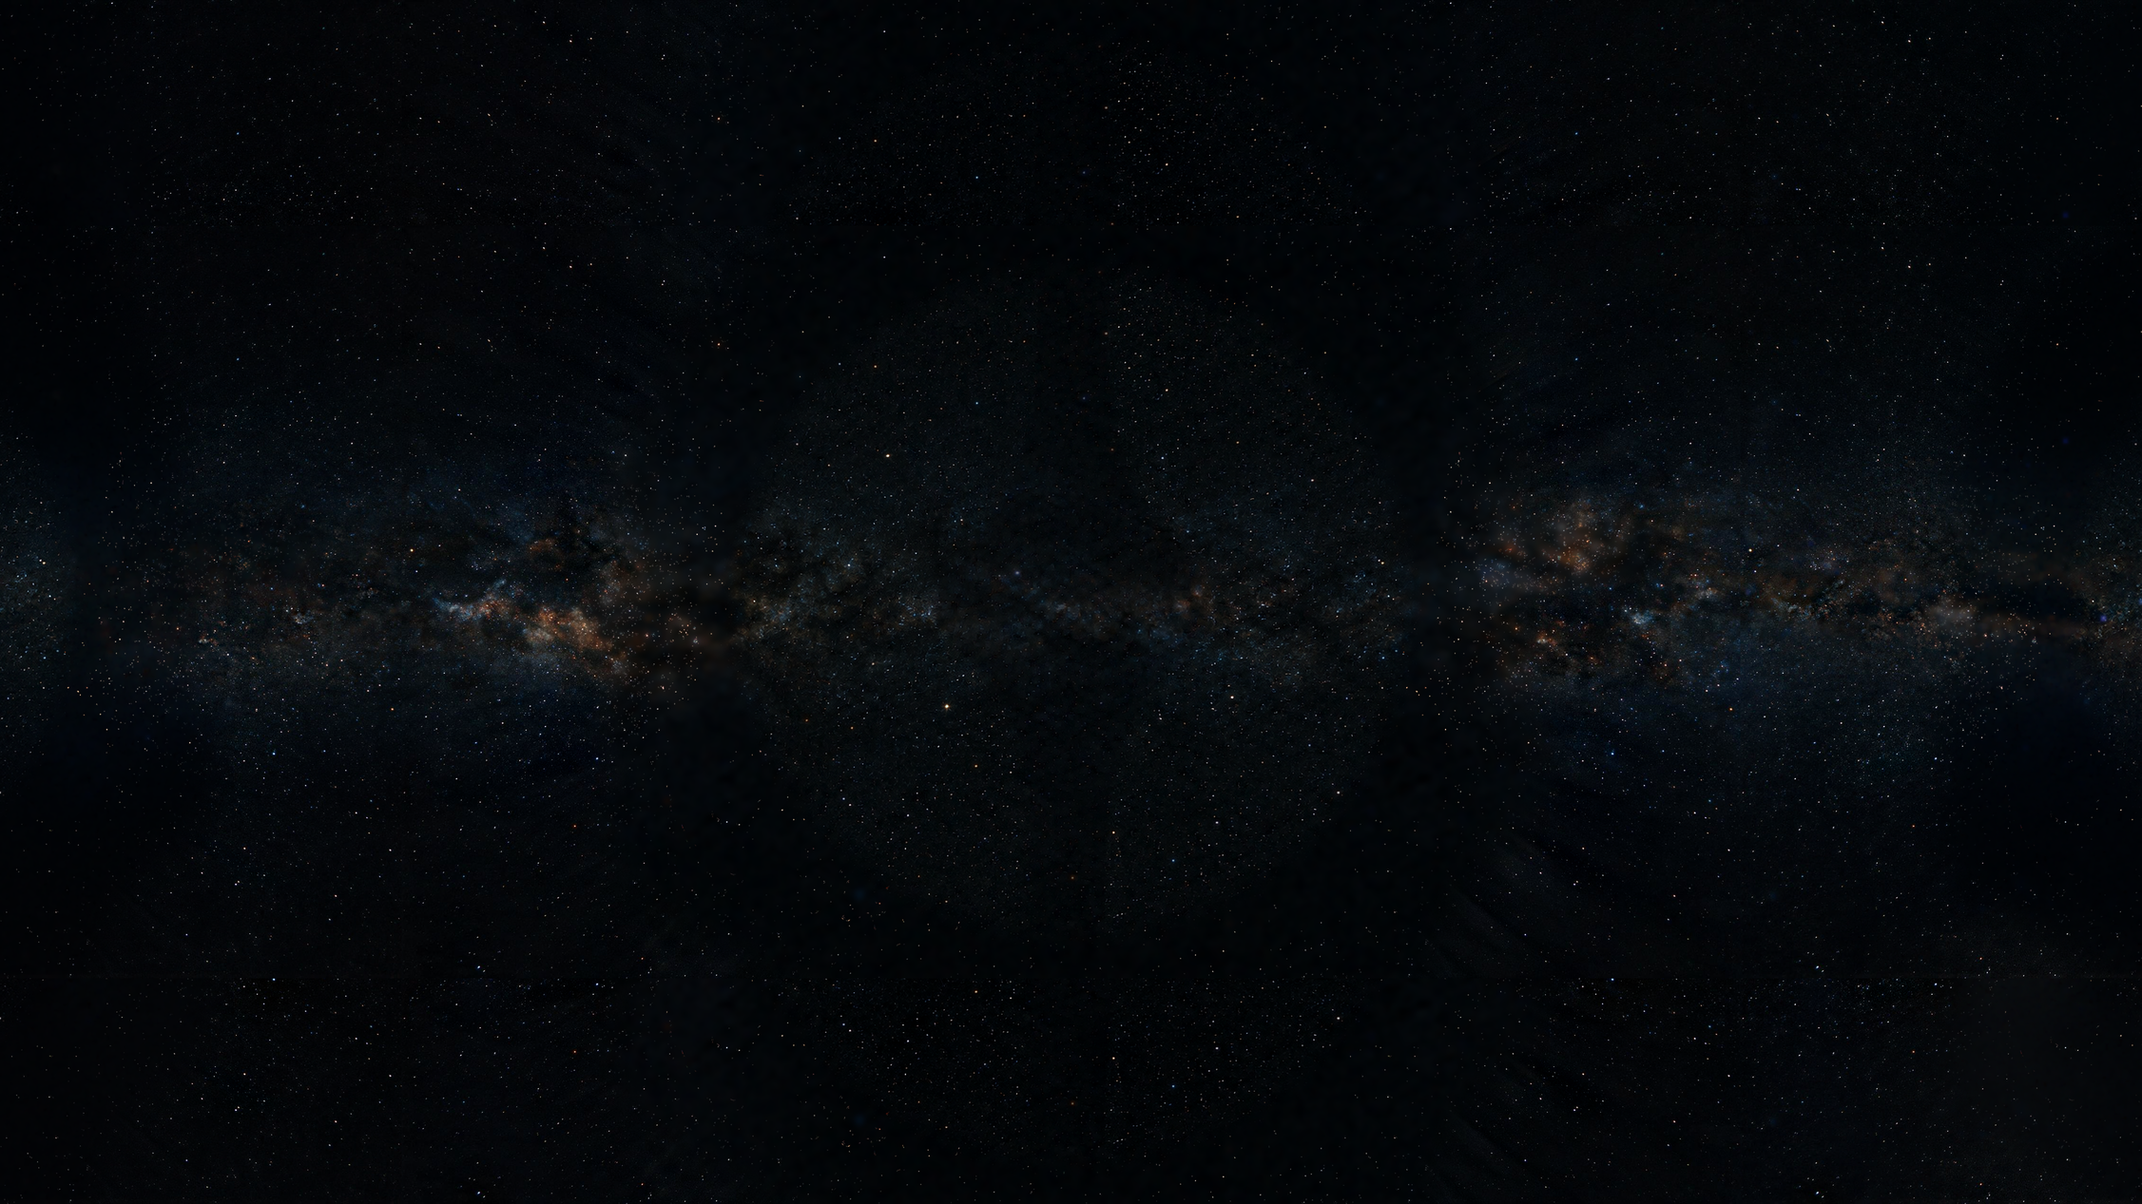
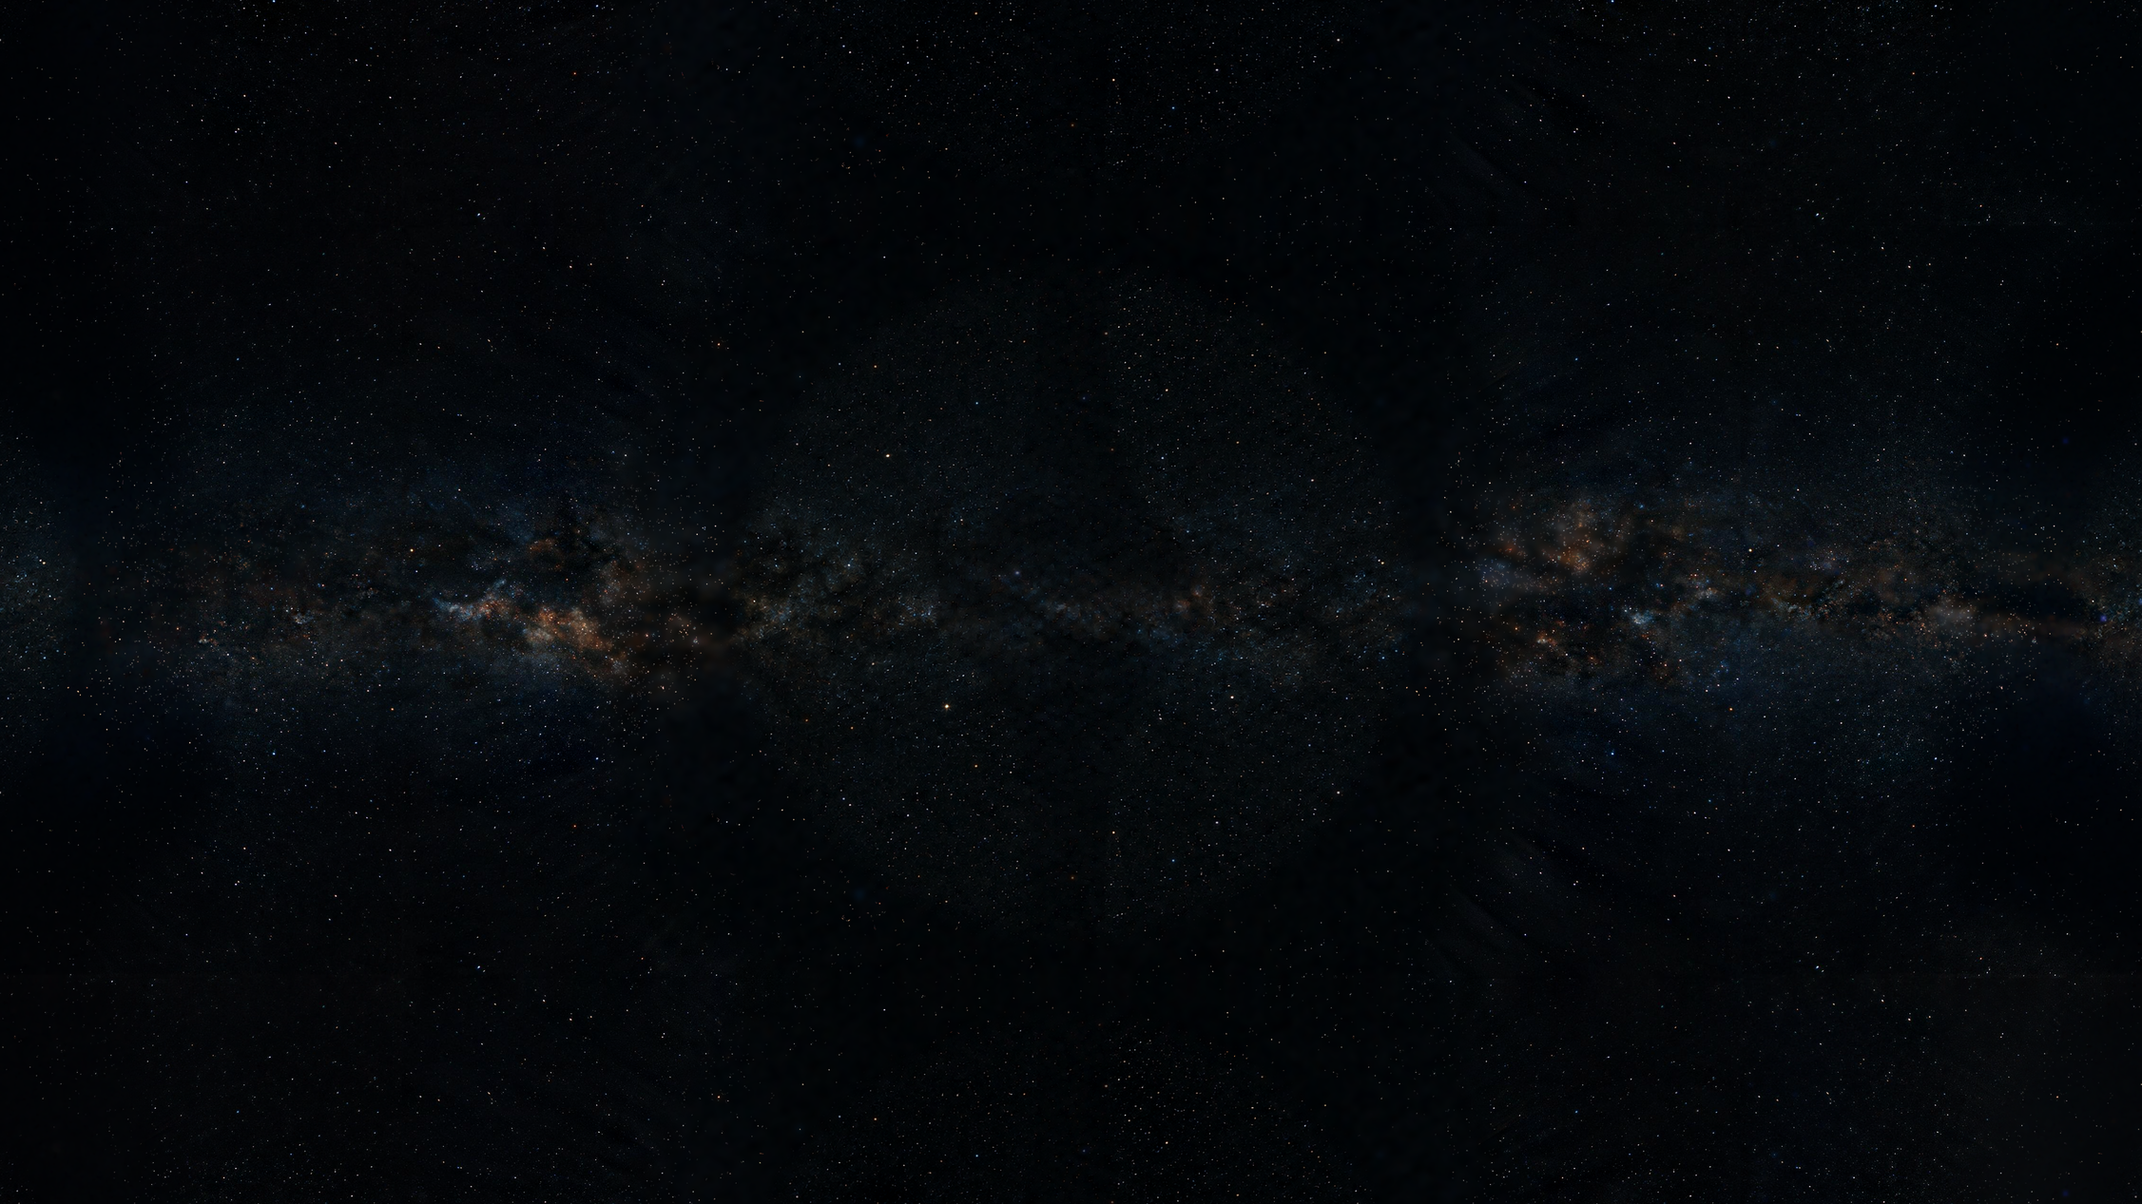
Sun round 3: relief sunspot meets the hero's sunspot and turns with the globe, hold sky card top and bottom border

diff --git a/src/stops/sun/set.ts b/src/stops/sun/set.ts
@@ -57,6 +57,8 @@ export const createSet: SetFactory = async (ctx) => {
   const terrainMid = (plan.seg.terrain.start + plan.seg.terrain.end) / 2 + config.shutterFraction / (2 * config.fps)
   const eye = new THREE.Vector3()
   const turn = new THREE.Quaternion()
+  const carry = new THREE.Quaternion()
+  const spark = new THREE.Vector3()
   const tint = new THREE.Vector3()
   const tint2 = new THREE.Vector3().fromArray(look.dissolve.tint)
   const d = look.dissolve
@@ -73,9 +75,10 @@ export const createSet: SetFactory = async (ctx) => {
       orbit.visible = inOrbit && state.weight > 0
       terrain.visible = !inOrbit || mixed
       if (mixed) {
-        terrain.quaternion.copy(plan.toGlobe)
+        carry.copy(plan.carry(state.time))
+        terrain.quaternion.copy(carry).multiply(plan.toGlobe)
         terrain.scale.setScalar(1 / stage.radius)
-        terrain.position.copy(inGlobe)
+        terrain.position.copy(inGlobe).applyQuaternion(carry)
         backdropTerrain.mesh.quaternion.copy(plan.toGlobe)
       } else {
         terrain.quaternion.identity()
@@ -91,11 +94,11 @@ export const createSet: SetFactory = async (ctx) => {
       backdrop.update(shown, gain, vignette, aspect)
       backdropTerrain.update(terrain.visible ? 1 - skyIn : 0, gain, vignette, aspect)
       const burst = kind === 'rise' ? flare.amount(state.time - flareAt) : 0
-      flare.update(inOrbit ? kernelGlobe : kernel, world, view.camera, burst, inOrbit ? 1 / stage.radius : 1, gain, aspect)
+      flare.update(inOrbit ? spark.copy(kernelGlobe).applyQuaternion(mixed ? carry : carry.identity()) : kernel, world, view.camera, burst, inOrbit ? 1 / stage.radius : 1, gain, aspect)
       if (terrain.visible) {
         const t = state.time - terrainMid
         eye.copy(world.position).negate().applyQuaternion(turn.copy(world.quaternion).invert())
-        if (mixed) eye.applyQuaternion(plan.toStage).multiplyScalar(stage.radius).add(stage.centre)
+        if (mixed) eye.applyQuaternion(turn.copy(carry).invert()).applyQuaternion(plan.toStage).multiplyScalar(stage.radius).add(stage.centre)
         const far = Math.min(Math.max((x - d.far[0]) / (d.far[1] - d.far[0]), 0), 1)
         ground.show(mixed, d.reach[0] + (d.reach[1] - d.reach[0]) * far, d.feather, 1 - share(x, d.cap), share(x, d.fold))
         ground.update(eye, t, gain, vignette, aspect, fringe.lod(view.camera.fov, view.format.height), look.flare.ground * burst)

diff --git a/src/stops/sun/plan.ts b/src/stops/sun/plan.ts
@@ -9,7 +9,7 @@ import { stage } from './stage'
 
 export const params: MoveParams = {
   hold: { orbitDeg: 6, axis: [0, 1, 0], push: 0 },
-  spot: { x: 0.54, y: 0.39 },
+  spot: { x: 0.57, y: 0.39 },
   dive: { headingDeg: 0, altitude: 0.7, back: 0.05, ahead: 0.12, bow: 0.15, rollDeg: 0 },
   terrain: { vfov: 55, gather: -0.5, forward: 2.0, rise: -0.1, side: 0.7, yawDeg: 8, pitchDeg: 8, horizonDeg: 3.2, dipDeg: 17.5, entryHeight: 0.9, entryBack: 1.1, entryPitchDeg: 4.8, exitHeight: 1.6, exitForward: -0.6, exitPitchDeg: -12 },
   rise: { azimuthDeg: 0, elevationDeg: 0, distance: 4.6, offset: [0, 0], driftSpeed: 0.05, rollDeg: 0, settle: 2 },
@@ -153,6 +153,10 @@ export class SunPlan extends StopPlan {
     const seg = this.seg.rise
     const path = this.path((time - seg.start) / (seg.end - seg.start))
     return time < this.switchTime ? { pose: this.local(path), view: 'terrain' } : { pose: path, view: 'orbit' }
+  }
+
+  carry(time: number): THREE.Quaternion {
+    return this.turn(time).multiply(this.turn(this.switchTime).invert())
   }
 
   blend(time: number): number {

diff --git a/src/stops/sun/ground.ts b/src/stops/sun/ground.ts
@@ -155,7 +155,7 @@ void main() {
   float shown = 1.0;
   for (int k = 0; k < (uMixed > 0.5 ? 1 : 0); k++) {
     float ring = length(vec2(dot(lay, ST_RIGHT), dot(lay, ST_FWD)));
-    float real = 1.0 - uShow.w * smoothstep(ST_FOLD.w - 1.6, ST_FOLD.w, ring);
+    float real = 1.0 - uShow.w * smoothstep(ST_FOLD.w - 1.1, ST_FOLD.w, ring);
     shown = uShow.z * real * (1.0 - smoothstep(uShow.x - uShow.y, uShow.x, length(vStage - uSpot))) * step(0.0, dot(normal, uCam - vStage));
   }
   outColor = diagOut(vec4(col, shown), texels, 1.0, vec3(0.9, 0.5, 0.1), moved * 4.0, length(vView));

diff --git a/assets-src/sun/orbit/sky.py b/assets-src/sun/orbit/sky.py
@@ -26,6 +26,7 @@ SMOOTH = 1.5
 MOTTLE = 6
 SEAM = 48
 RIM = (6, 8, 40, 1.3)
+CARRY = 110
 
 
 def rowgain(inner, outer, along, limits):
@@ -84,14 +85,19 @@ def save(lin, name, out):
     lin = lifted(lin)
     across = sides(lin)
     low = cv2.GaussianBlur(across, (0, 0), SOFT)
-    fine = across - low
-    fine = np.concatenate([fine[:py], fine, fine[H - py:]], 0)
-    base = np.pad(low, ((py, py), (0, 0), (0, 0)), mode='edge')
+    floor = split(across)[0]
+    near = cv2.GaussianBlur(floor, (0, 0), MOTTLE)
+    around = lambda v: np.concatenate([v[H - py:], v, v[:py]], 0)
+    straight = lambda v: np.pad(v, ((py, py), (0, 0), (0, 0)), mode='edge')
+    base = straight(low)
     calm = cv2.GaussianBlur(base, (0, 0), SOFT * 2.5)
     yy = np.arange(base.shape[0])[:, None]
-    t = np.clip(np.maximum(py - yy, yy - (py + H - 1)) / (py * CROSS), 0, 1)
-    t = (t * t * (3 - 2 * t))[..., None]
-    wide = np.maximum(base * (1 - t) + calm * t + fine, 0)
+    away = np.maximum(py - yy, yy - (py + H - 1))
+    ease = lambda v: (v * v * (3 - 2 * v))[..., None]
+    t = ease(np.clip(away / (py * CROSS), 0, 1))
+    hold = 1 - ease(np.clip(away / CARRY, 0, 1))
+    mottle = straight(near - low) * hold + around(near - low) * (1 - hold)
+    wide = np.maximum(base * (1 - t) + calm * t + mottle + around(across - near), 0)
     wide[py:py + H] = across
     wide[py:py + H, px:px + W] = lin
     img = Image.fromarray((to_srgb(film(wide)) * 255 + 0.5).astype(np.uint8))

diff --git a/assets-src/sun/RECIPE.md b/assets-src/sun/RECIPE.md
@@ -75,7 +75,7 @@ Shared inputs:
   - Prompt, exact, with SIDE = right or left: "This picture is a deep space photograph of a dense star field with the dusty star clouds of the Milky Way, in which the SIDE part has been painted out with flat grey. Fill the whole grey area by continuing the picture to the SIDE seamlessly, so the result is one single finished picture and the border between the old part and the new part is impossible to find: no straight line, no step in brightness or color, no change of star density, star size or sharpness along the former grey edge. The Milky Way star clouds and dust lanes that are cut by the grey edge are completed across it, continue to the SIDE for about a third of the new area and then thin out gradually, so that the SIDE end of the picture is only the same near-black blue sky with sparse, fine, pinpoint, slightly colored stars as at the top and bottom of the picture. Same star sizes, same star density, same brightness, same faint grain, same colors as the old part next to the grey edge (small warm orange-brown knots, small blue-white clusters, brown dust lanes). Keep the old part of the picture exactly unchanged: same stars in the same places, same exposure and color. No sun, no planet, no moon, no glow, no light rays, no bright nebula, no lens flare, no text, no border, no grey left anywhere. Wide 16:9 picture."
   - `edge.py place right` (and `left`): the take is laid on the input by an affine ECC fit over the kept sky (correlation 0.9959 right, 0.9966 left) and the first 845 card columns beyond the border are written to `out/work/sun/edge-right.png` (845 x 1584).
   - `sky.py` (`sides`): the take painted its stars as a regular grid of fine dots, so only its floor is used (7 x 7 opening, Gaussian 1.5 px). Each row of the floor is scaled so its mean over the first 300 columns equals the hero's floor over the last 300 columns inside (`FLOOR`, Gaussian 80 rows), then joined to the hero's floor at the border (32 columns each side, Gaussian 30 rows, limits 0.4 to 2.5, fading out with 160 px). Stars and fine mottle (the hero's stars plus the part of its floor finer than 6 px) are taken from the far side of the hero, column for column (the right margin shows the fine detail of the hero's left 845 columns and the reverse), scaled by the ratio of the local floor (40 px Gaussian, limits 0.4 to 2.5). So a star pattern repeats only 2816 px away, never side by side.
-  - The top and bottom margins are the low-pass (40 px) carried outward and calmed, plus the fine detail of the nearest 475 rows moved outward. They do not come into frame in the hold.
+  - The top and bottom margins are the low-pass (40 px) carried outward and calmed. On top of it: the floor's mottle (the part of the star free floor between 6 px and 40 px) is carried straight out from the border row and blended over 110 rows (`CARRY`) into the mottle of the far side (the top margin shows the hero's bottom 475 rows and the reverse, a wrap, never a mirror); the stars and the finest detail come from the far side from the first row on. Before, the margin showed the nearest 475 rows moved outward, so a bright star cloud of the first rows stood next to itself as a straight horizontal change of texture. The top border is in frame in the rise from frame 224 to 247 (y 264 at 224, 103 at 229, 1 at 237), the bottom from 224 to 237; in the hold only wedges of at most 15 px show. Review frames 229, 233, 237, 241, 247, 270, 449 after the change: no straight horizontal edge at 3 times gain, mirrorcheck clean.
   - Seam: each margin is then scaled row by row so the mean of its first 48 columns equals the mean of the hero's last 48 columns (stars clipped at the 99.5 percent level, Gaussian 30 rows, limits 0.6 to 1.6, fading out with 160 px). Measured at review on frame 270 across the border (x 1807): column means differ by under 2 levels, no step.
   - Rim: the approved image's own outermost columns are darker than their neighbours (left 15 percent at the last column, right 7 percent, over 4 to 5 px; top and bottom the same). At frame 360 they sit on the frame edge; when the hold turns they came 113 px into frame as a dark hairline. The six outermost columns at left and right are lifted by one gain each (`RIM`, left 1.19, 1.15, 1.13, 1.10, 1.04, 1.02, right 1.07, 1.06, 1.05, 1.05, 1.01, 1.00), so the level runs flat to the border. This is the only change inside the border: 12 of 2816 columns.
 - In the film: `src/stops/sun/skycard.ts` draws it on a card at the far plane, fixed in the set frame where the hero camera looks, over the film's own sky. Its weight is 1 in the hold and the orbit part of the rise and fades out over the first third of the travel. The corona hides the sky behind it where it is bright (`hide` in `src/stops/sun/look.ts`), as the hero shows no stars inside the glare.
@@ -131,6 +131,7 @@ Shared inputs:
 - What it is: the near ground that the approved image does not show (the camera of frame 0 is 1.45 camera heights behind and 0.52 above the approved pose). It is projected from the frozen camera of frame 0 and mixed in outside the approved frame.
 - Output: `apron.jpg` 5504 x 1548 (rows 0.5 to 1 of the picture of frame 0) and 2752 x 774, JPEG 92 and 88, 4:4:4.
 - `src/stops/sun/apron.json`: `npx tsx assets-src/sun/terrain/apron-pose.ts`, the camera of frame 0 at the time of the take (position, quaternion, field of view), the first row kept, the reach on the ground (full within 3.0 camera heights of the point under that camera, gone at 3.6) and the feather inside the approved frame (0.04 of the frame). The projector does not follow the plan: if the terrain move changes, frame 0 no longer gives the painting back exactly, and the takes should be made again. The pose is the base glide at 1/120 s (the middle of the shutter of frame 0 before the eased start existed). `climb.ease.lead` in `plan.ts` (1/120 s) starts the eased glide at that pose, so frame 0 is the canvas itself; without it the camera stood 0.0044 units further back and the left 8 px of frame 0 showed the mirrored wrap of the plate.
+- Round 15 (round 3 of the stop): the terrain move was timed again for an eased start and one constant ground speed (`climb.ease = { over, speed }` in `plan.ts`, no `lead` any more). Frame 0 now stands at (-0.157, 0.022, 0.448) from the approved pose, nearer than the apron's projector at (-0.437, 0.062, 1.249), so frame 0 no longer gives the painting back pixel for pixel: it shows the upper part of the painting from a nearer, lower camera, and less of it. No take was left to paint it again (6 of 6 used). Checked on frame 0 at the final tier (`out/work/sun/r12/f00000.png`): no seam between plate and apron, mirrorcheck clean.
 - Base picture: `out/work/sun/apron-base.png`, frame 0 at the draft tier without grain (`npm run still -- --frame 0 --tier draft --diag nograin`), with `look.ground.boil.reach` 0, `look.ground.twinkle.amount` 0 and `look.ground.apron.amount` 0. Its lower half (rows 540 to 1079) is enlarged to 5504 x 1548: `python3 tools/ml/upscale.py --in out/work/sun/apron2-base-low.png --out out/work/sun/apron2-base-low-x.png --width 5504`.
 - Painted in three tiles of 2752 x 1548 on that canvas, so the plate holds 2.87 painted pixels for each pixel of frame 0 (the first version was one take of the whole frame, 1.43, enlarged). Script: `assets-src/sun/terrain/apron2.py`, run with `PYTHONPATH=assets-src/sun/terrain`: `start`, then for the tiles C (columns 1376 to 4127), L (0 to 2751) and R (2752 to 5503): `input NAME` (the canvas with flat grey 128 wherever the apron weight is 0.4 or more and nothing is painted yet), one generation, `place NAME` (affine placement of the take on the tile over the kept ground by ECC, channel means matched over the kept ground with the match fading out above 170 to 245 of 255, pasted into the grey area with a soft edge), then `build`. L and R see the finished centre in their inner half, less a margin of 160 px that they paint again, so cells run on across the tile borders.
 - Tool and model: `generate_image`, model `nano_banana_pro`, aspect 16:9, images: the tile input only.

diff --git a/assets-src/sun/NOTES.md b/assets-src/sun/NOTES.md
@@ -377,3 +377,19 @@ Item 9, hold turn: measured at draft, features at the disc centre moved 36 px ac
 - 208 and 212 at review: limb readable, no whiteout (`i99-rv208.jpg`, `i100-rv212.jpg`).
 - Tests 59 of 59, tsc clean, G11 pass, web 12 MB, full 38 MB (before the merge).
 - Still to do before READY: finish the review frames and look at each; `npm run measure -- --stop sun --every 2`; draft sequences 262 to 272 and 444 to 456 with `jump.py`; gate G12, G15; merge origin/main; build; tests; commit; push; looks; READY mail in the format of mail 19.
+
+## Review rise frames and measures (15:05 to 15:20 UTC)
+
+- Review tier rise sheet (180 to 269, 12 frames) and cover sheet (211 to 222) rendered into `out/work/sun/rv`, composed as `out/work/sun/i104-rise-sheet-review.jpg` and `i104-rise-cover-review.jpg`. Limb step (`limb.py`, median luma step across the limb): 180 115.0, 188 108.8, 196 108.2, 204 110.7, 208 118.7, 211 103.2, 212 105.9, 213 95.4, 214 83.0, 215 82.3, 216 81.1, 217 86.3, 218 87.9, 219 81.4, 220 81.3, 221 82.5, 222 84.5, 229 76.7, 237 78.0, 245 79.2, 253 80.7, 261 76.9, 269 81.7. Lowest is 0.69 of frame 204: the limb is readable in every frame. mirrorcheck clean on 229, 237, 245, 253, 261, 269.
+- Measures on a9b90c6 plus notes (`measure7.log`, `--every 2`, 697 s): G13 0 of 217 soft; G5 coverage 0.532, 0.520, 0.511, 0.312, 0.309; G17 median/p25 1.243/1.010 (0), 1.114/1.024 (60), 1.097/1.031 (90), 1.014/0.911 (360).
+- Hold card, top and bottom border: `border.ts` prints where the approved border sits in a frame. Top border in frame from 224 (y 264 to 318) to 247 (y -17 to 17), bottom 224 to 237; in the hold only wedges of at most 15 px. At 3 times gain the card itself showed a straight horizontal change of texture at both (the margin's fine detail was the hero's first rows moved up, `i110-card-top-x3.png`). In work: margin mottle carried straight from the border and blended over `CARRY` 110 px into the far side's detail, stars from the far side (wrap, no mirror). No rim lift on the top and bottom rows (tried, dropped: nothing inside changes there).
+- Builder note 15:20: an engine batch for fast frames (softer texture detail along the motion in frames that move more than 10 px in the shutter, higher sample caps, an optional plan number per cover) comes on main about 16:20. Do not send READY before it is on main and merged; if no word by 16:45 UTC send READY without it. Use the time on motion first (covers as joins, the rise ending in the hold's world, speed steps, terrain depth and forward movement), then match and craft.
+
+## Sunspot meets sunspot, top and bottom of the hold card (15:20 to 15:45 UTC)
+
+- Hold card top and bottom margin done (`sky.py` `save`, `CARRY` 110): floor mottle carried straight from the border and blended into the far side's mottle, stars from the far side. Inside the border 0 pixels change against the card before. Review frames 229, 233, 237, 241, 245, 247, 270, 449 in `out/work/sun/rv3`: mirrorcheck clean, no straight edge at 3 times gain (`i118-top-border-old-new.png`, `i115-card-topbottom-old-new-x4.png`). `out/work/sun/border.ts FRAME...` prints where the four corners of the approved border sit in a frame.
+- Rise, "the sunspot region at the same place": the site was at `spot` 0.54, 0.39 of the hero, which is the hero's WHITE active region, so the relief's dark sunspot dissolved into white. The hero's dark sunspot beside it is at 0.57, 0.39 (umbra centre about x 1605, y 615 of 2816 x 1584). `params.spot` is now 0.57, 0.39: the relief's sunspot lands on the hero's dark sunspot.
+- The relief now turns with the globe during the dissolve: `plan.carry(time)` = turn(time) x turn(switch)^-1, applied to the terrain group, its position, the eye given to the ground shader and the flare's anchor. Before, the globe turned 1.8 degrees under the fixed relief between 208 and 224 (about 14 px a frame at 212).
+- The pale patch inside the umbra at 211 to 215 was the fold mask: its feather began at ring 2.0 while the sunspot sits at ring 2.2 to 2.5, so up to a third of the globe showed through the umbra. Feather now 1.1 wide (from ring 2.5 to 3.6).
+- Draft 200 to 232 after it (`i124-carry-a.jpg`, `-b.jpg`): no jump at 207/208 (neighbour difference 25.8, 25.2, 25.0), highest 29.8 at 216, 16.9 at 232; relief sunspot and hero sunspot coincide from 212 to 217 while one fades into the other. Ground speed (`flowq.ts`): 4.7 px (180), 3.4 (193), 25.6 (204), 45.6 (212), 31.1 (224), 7.0 (236), acceleration never above 6.
+- Review tier terrain and hold sheet frames are rendering into `out/work/sun/tv` (`tv.log`).
